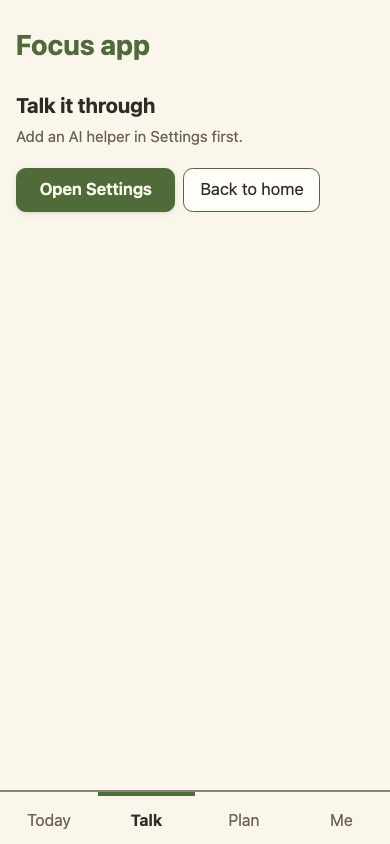
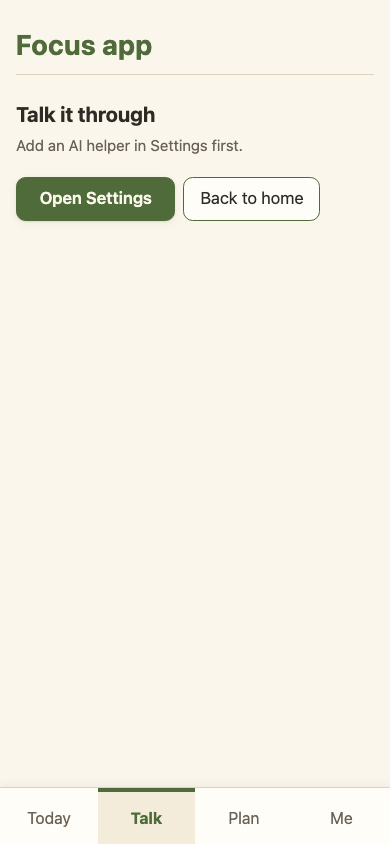
feat(look): clearer tab bar, header rule and after-screenshots

diff --git a/css/styles.css b/css/styles.css
@@ -96,7 +96,10 @@ body {
 h1 {
   color: var(--accent);
   font-size: var(--font-title);
-  margin: 0 0 var(--space-1);
+  letter-spacing: 0.01em;
+  margin: 0 0 var(--space-2);
+  padding-bottom: var(--space-1);
+  border-bottom: 1px solid var(--line);
 }
 
 h2 {
@@ -874,24 +877,26 @@ button {
   display: flex;
   max-width: var(--width);
   margin: 0 auto;
-  background: var(--bg);
-  border-top: 2px solid var(--border);
+  background: var(--surface);
+  border-top: 1px solid var(--line);
+  box-shadow: 0 -2px 8px rgba(46, 42, 36, 0.06);
   padding-bottom: 0;
   padding-bottom: env(safe-area-inset-bottom, 0);
 }
 .tabbar button {
   flex: 1 1 0;
-  min-height: 3.25rem;
+  min-height: 3.5rem;
   margin: 0;
   border-radius: 0;
   border: 0;
   border-top: 4px solid transparent;
-  background: var(--bg);
+  background: transparent;
   color: var(--muted);
   font-size: 1rem;
 }
 .tabbar button[aria-selected="true"] {
-  color: var(--text);
+  color: var(--accent);
+  background: var(--soft);
   font-weight: 700;
   border-top-color: var(--accent);
 }
